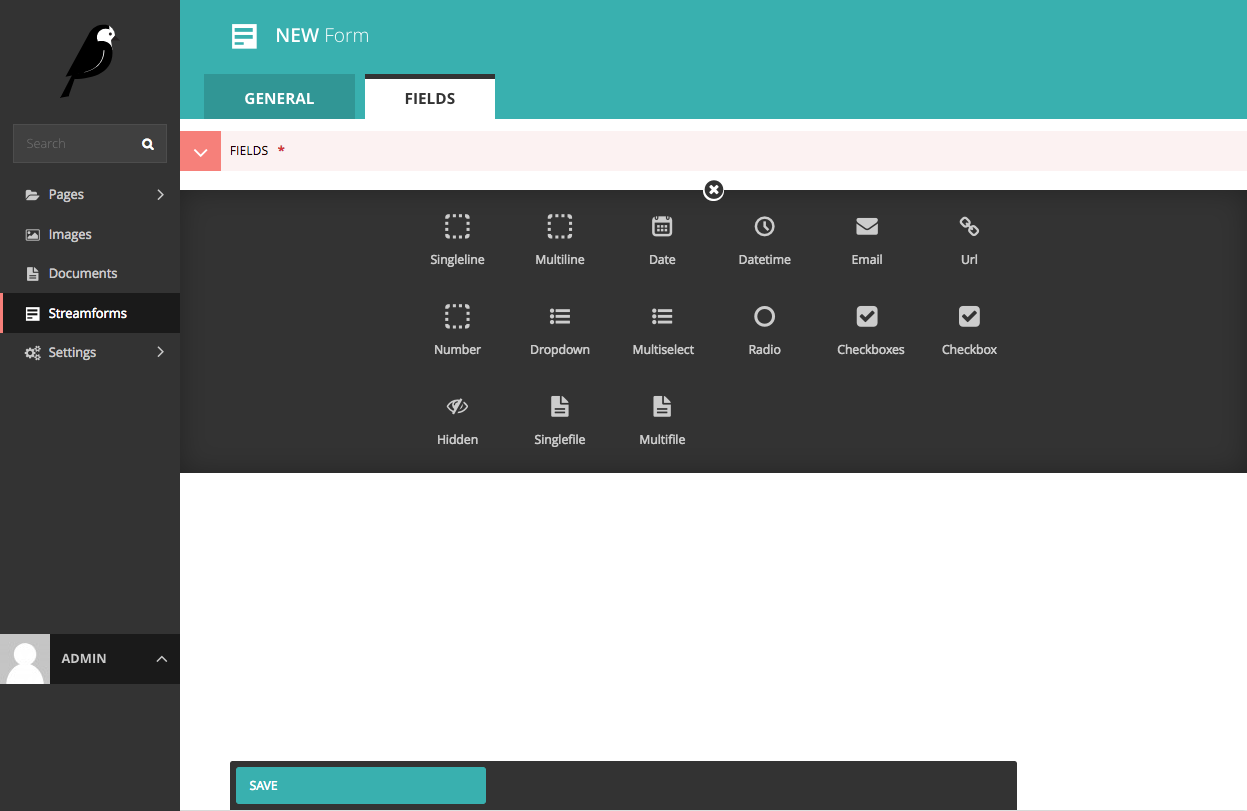
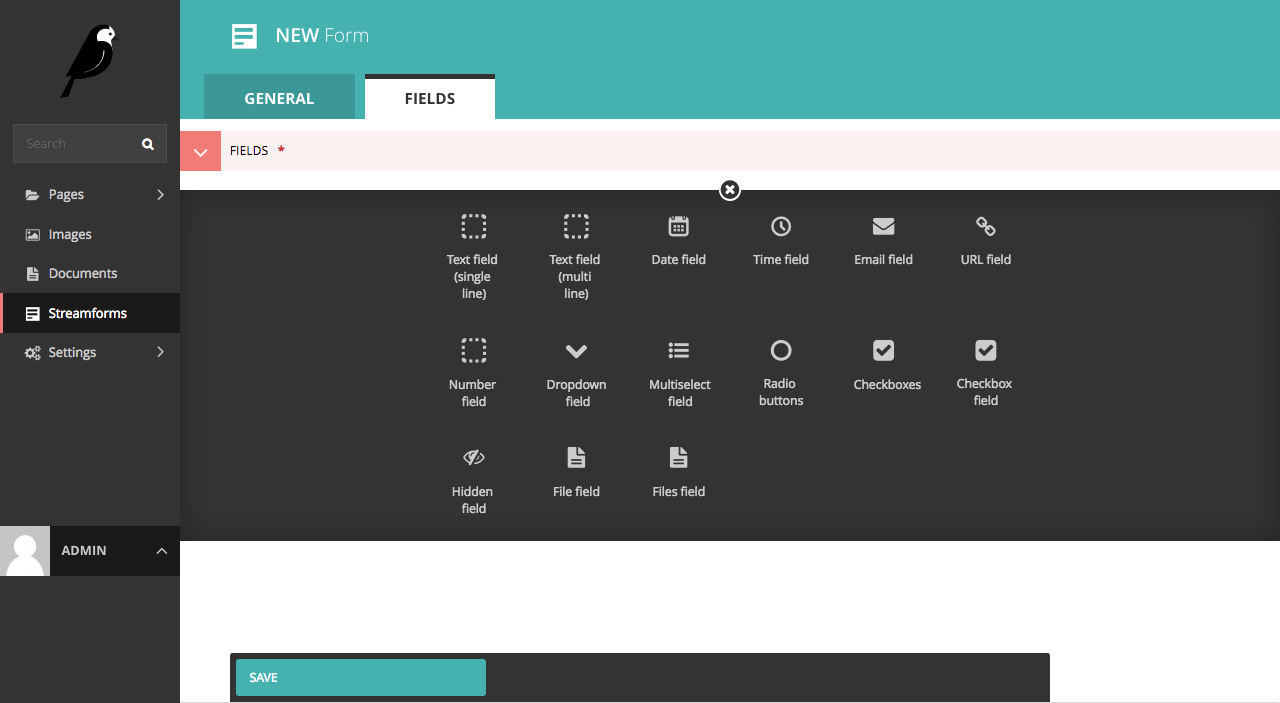
added labels to all fields and docs

diff --git a/wagtailstreamforms/migrations/0001_initial.py b/wagtailstreamforms/migrations/0001_initial.py
@@ -1,4 +1,4 @@
-# Generated by Django 2.0.5 on 2018-05-18 21:32
+# Generated by Django 2.0.5 on 2018-05-30 23:03
 
 from django.db import migrations, models
 import django.db.models.deletion
@@ -24,7 +24,7 @@ class Migration(migrations.Migration):
                 ('title', models.CharField(max_length=255, verbose_name='Title')),
                 ('slug', models.SlugField(allow_unicode=True, help_text='Used to identify the form in template tags', max_length=255, unique=True, verbose_name='Slug')),
                 ('template_name', models.CharField(choices=wagtailstreamforms.conf.get_setting('FORM_TEMPLATES'), max_length=255, verbose_name='Template')),
-                ('fields', wagtailstreamforms.streamfield.FormFieldsStreamField((('singleline', wagtail.core.blocks.StructBlock((('label', wagtail.core.blocks.CharBlock()), ('help_text', wagtail.core.blocks.CharBlock(required=False)), ('required', wagtail.core.blocks.BooleanBlock(required=False)), ('default_value', wagtail.core.blocks.CharBlock(required=False))), icon='placeholder')), ('multiline', wagtail.core.blocks.StructBlock((('label', wagtail.core.blocks.CharBlock()), ('help_text', wagtail.core.blocks.CharBlock(required=False)), ('required', wagtail.core.blocks.BooleanBlock(required=False)), ('default_value', wagtail.core.blocks.CharBlock(required=False))), icon='placeholder')), ('date', wagtail.core.blocks.StructBlock((('label', wagtail.core.blocks.CharBlock()), ('help_text', wagtail.core.blocks.CharBlock(required=False)), ('required', wagtail.core.blocks.BooleanBlock(required=False)), ('default_value', wagtail.core.blocks.CharBlock(required=False))), icon='date')), ('datetime', wagtail.core.blocks.StructBlock((('label', wagtail.core.blocks.CharBlock()), ('help_text', wagtail.core.blocks.CharBlock(required=False)), ('required', wagtail.core.blocks.BooleanBlock(required=False)), ('default_value', wagtail.core.blocks.CharBlock(required=False))), icon='time')), ('email', wagtail.core.blocks.StructBlock((('label', wagtail.core.blocks.CharBlock()), ('help_text', wagtail.core.blocks.CharBlock(required=False)), ('required', wagtail.core.blocks.BooleanBlock(required=False)), ('default_value', wagtail.core.blocks.CharBlock(required=False))), icon='mail')), ('url', wagtail.core.blocks.StructBlock((('label', wagtail.core.blocks.CharBlock()), ('help_text', wagtail.core.blocks.CharBlock(required=False)), ('required', wagtail.core.blocks.BooleanBlock(required=False)), ('default_value', wagtail.core.blocks.CharBlock(required=False))), icon='link')), ('number', wagtail.core.blocks.StructBlock((('label', wagtail.core.blocks.CharBlock()), ('help_text', wagtail.core.blocks.CharBlock(required=False)), ('required', wagtail.core.blocks.BooleanBlock(required=False)), ('default_value', wagtail.core.blocks.CharBlock(required=False))), icon='placeholder')), ('dropdown', wagtail.core.blocks.StructBlock((('label', wagtail.core.blocks.CharBlock()), ('help_text', wagtail.core.blocks.CharBlock(required=False)), ('required', wagtail.core.blocks.BooleanBlock(required=False)), ('empty_label', wagtail.core.blocks.CharBlock(required=False)), ('choices', wagtail.core.blocks.ListBlock(wagtail.core.blocks.CharBlock(label='Option')))), icon='list-ul')), ('multiselect', wagtail.core.blocks.StructBlock((('label', wagtail.core.blocks.CharBlock()), ('help_text', wagtail.core.blocks.CharBlock(required=False)), ('required', wagtail.core.blocks.BooleanBlock(required=False)), ('choices', wagtail.core.blocks.ListBlock(wagtail.core.blocks.CharBlock(label='Option')))), icon='list-ul')), ('radio', wagtail.core.blocks.StructBlock((('label', wagtail.core.blocks.CharBlock()), ('help_text', wagtail.core.blocks.CharBlock(required=False)), ('required', wagtail.core.blocks.BooleanBlock(required=False)), ('choices', wagtail.core.blocks.ListBlock(wagtail.core.blocks.CharBlock(label='Option')))), icon='radio-empty')), ('checkboxes', wagtail.core.blocks.StructBlock((('label', wagtail.core.blocks.CharBlock()), ('help_text', wagtail.core.blocks.CharBlock(required=False)), ('required', wagtail.core.blocks.BooleanBlock(required=False)), ('choices', wagtail.core.blocks.ListBlock(wagtail.core.blocks.CharBlock(label='Option')))), icon='tick-inverse')), ('checkbox', wagtail.core.blocks.StructBlock((('label', wagtail.core.blocks.CharBlock()), ('help_text', wagtail.core.blocks.CharBlock(required=False)), ('required', wagtail.core.blocks.BooleanBlock(required=False))), icon='tick-inverse')), ('hidden', wagtail.core.blocks.StructBlock((('label', wagtail.core.blocks.CharBlock()), ('help_text', wagtail.core.blocks.CharBlock(required=False)), ('required', wagtail.core.blocks.BooleanBlock(required=False)), ('default_value', wagtail.core.blocks.CharBlock(required=False))), icon='no-view')), ('singlefile', wagtail.core.blocks.StructBlock((('label', wagtail.core.blocks.CharBlock()), ('help_text', wagtail.core.blocks.CharBlock(required=False)), ('required', wagtail.core.blocks.BooleanBlock(required=False))), icon='doc-full-inverse')), ('multifile', wagtail.core.blocks.StructBlock((('label', wagtail.core.blocks.CharBlock()), ('help_text', wagtail.core.blocks.CharBlock(required=False)), ('required', wagtail.core.blocks.BooleanBlock(required=False))), icon='doc-full-inverse'))), verbose_name='Fields')),
+                ('fields', wagtailstreamforms.streamfield.FormFieldsStreamField([('singleline', wagtail.core.blocks.StructBlock([('label', wagtail.core.blocks.CharBlock()), ('help_text', wagtail.core.blocks.CharBlock(required=False)), ('required', wagtail.core.blocks.BooleanBlock(required=False)), ('default_value', wagtail.core.blocks.CharBlock(required=False))], icon='placeholder', label='Text field (single line)')), ('multiline', wagtail.core.blocks.StructBlock([('label', wagtail.core.blocks.CharBlock()), ('help_text', wagtail.core.blocks.CharBlock(required=False)), ('required', wagtail.core.blocks.BooleanBlock(required=False)), ('default_value', wagtail.core.blocks.CharBlock(required=False))], icon='placeholder', label='Text field (multi line)')), ('date', wagtail.core.blocks.StructBlock([('label', wagtail.core.blocks.CharBlock()), ('help_text', wagtail.core.blocks.CharBlock(required=False)), ('required', wagtail.core.blocks.BooleanBlock(required=False)), ('default_value', wagtail.core.blocks.CharBlock(required=False))], icon='date', label='Date field')), ('datetime', wagtail.core.blocks.StructBlock([('label', wagtail.core.blocks.CharBlock()), ('help_text', wagtail.core.blocks.CharBlock(required=False)), ('required', wagtail.core.blocks.BooleanBlock(required=False)), ('default_value', wagtail.core.blocks.CharBlock(required=False))], icon='time', label='Time field')), ('email', wagtail.core.blocks.StructBlock([('label', wagtail.core.blocks.CharBlock()), ('help_text', wagtail.core.blocks.CharBlock(required=False)), ('required', wagtail.core.blocks.BooleanBlock(required=False)), ('default_value', wagtail.core.blocks.CharBlock(required=False))], icon='mail', label='Email field')), ('url', wagtail.core.blocks.StructBlock([('label', wagtail.core.blocks.CharBlock()), ('help_text', wagtail.core.blocks.CharBlock(required=False)), ('required', wagtail.core.blocks.BooleanBlock(required=False)), ('default_value', wagtail.core.blocks.CharBlock(required=False))], icon='link', label='URL field')), ('number', wagtail.core.blocks.StructBlock([('label', wagtail.core.blocks.CharBlock()), ('help_text', wagtail.core.blocks.CharBlock(required=False)), ('required', wagtail.core.blocks.BooleanBlock(required=False)), ('default_value', wagtail.core.blocks.CharBlock(required=False))], icon='placeholder', label='Number field')), ('dropdown', wagtail.core.blocks.StructBlock([('label', wagtail.core.blocks.CharBlock()), ('help_text', wagtail.core.blocks.CharBlock(required=False)), ('required', wagtail.core.blocks.BooleanBlock(required=False)), ('empty_label', wagtail.core.blocks.CharBlock(required=False)), ('choices', wagtail.core.blocks.ListBlock(wagtail.core.blocks.CharBlock(label='Option')))], icon='arrow-down-big', label='Dropdown field')), ('multiselect', wagtail.core.blocks.StructBlock([('label', wagtail.core.blocks.CharBlock()), ('help_text', wagtail.core.blocks.CharBlock(required=False)), ('required', wagtail.core.blocks.BooleanBlock(required=False)), ('choices', wagtail.core.blocks.ListBlock(wagtail.core.blocks.CharBlock(label='Option')))], icon='list-ul', label='Multiselect field')), ('radio', wagtail.core.blocks.StructBlock([('label', wagtail.core.blocks.CharBlock()), ('help_text', wagtail.core.blocks.CharBlock(required=False)), ('required', wagtail.core.blocks.BooleanBlock(required=False)), ('choices', wagtail.core.blocks.ListBlock(wagtail.core.blocks.CharBlock(label='Option')))], icon='radio-empty', label='Radio buttons')), ('checkboxes', wagtail.core.blocks.StructBlock([('label', wagtail.core.blocks.CharBlock()), ('help_text', wagtail.core.blocks.CharBlock(required=False)), ('required', wagtail.core.blocks.BooleanBlock(required=False)), ('choices', wagtail.core.blocks.ListBlock(wagtail.core.blocks.CharBlock(label='Option')))], icon='tick-inverse', label='Checkboxes')), ('checkbox', wagtail.core.blocks.StructBlock([('label', wagtail.core.blocks.CharBlock()), ('help_text', wagtail.core.blocks.CharBlock(required=False)), ('required', wagtail.core.blocks.BooleanBlock(required=False))], icon='tick-inverse', label='Checkbox field')), ('hidden', wagtail.core.blocks.StructBlock([('label', wagtail.core.blocks.CharBlock()), ('help_text', wagtail.core.blocks.CharBlock(required=False)), ('required', wagtail.core.blocks.BooleanBlock(required=False)), ('default_value', wagtail.core.blocks.CharBlock(required=False))], icon='no-view', label='Hidden field')), ('singlefile', wagtail.core.blocks.StructBlock([('label', wagtail.core.blocks.CharBlock()), ('help_text', wagtail.core.blocks.CharBlock(required=False)), ('required', wagtail.core.blocks.BooleanBlock(required=False))], icon='doc-full-inverse', label='File field')), ('multifile', wagtail.core.blocks.StructBlock([('label', wagtail.core.blocks.CharBlock()), ('help_text', wagtail.core.blocks.CharBlock(required=False)), ('required', wagtail.core.blocks.BooleanBlock(required=False))], icon='doc-full-inverse', label='Files field'))], verbose_name='Fields')),
                 ('submit_button_text', models.CharField(default='Submit', max_length=100, verbose_name='Submit button text')),
                 ('success_message', models.CharField(blank=True, help_text='An optional success message to show when the form has been successfully submitted', max_length=255, verbose_name='Success message')),
                 ('error_message', models.CharField(blank=True, help_text='An optional error message to show when the form has validation errors', max_length=255, verbose_name='Error message')),

diff --git a/wagtailstreamforms/wagtailstreamforms_fields.py b/wagtailstreamforms/wagtailstreamforms_fields.py
@@ -1,4 +1,5 @@
 from django import forms
+from django.utils.translation import ugettext_lazy as _
 from wagtail.core import blocks
 
 from wagtailstreamforms.fields import BaseField, register
@@ -7,47 +8,55 @@ from wagtailstreamforms.fields import BaseField, register
 @register('singleline')
 class SingleLineTextField(BaseField):
     field_class = forms.CharField
+    label = _("Text field (single line)")
 
 
 @register('multiline')
 class MultiLineTextField(BaseField):
     field_class = forms.CharField
     widget = forms.widgets.Textarea
+    label = _("Text field (multi line)")
 
 
 @register('date')
 class DateField(BaseField):
     field_class = forms.DateField
     icon = 'date'
+    label = _("Date field")
 
 
 @register('datetime')
 class DateTimeField(BaseField):
     field_class = forms.DateTimeField
     icon = 'time'
+    label = _("Time field")
 
 
 @register('email')
 class EmailField(BaseField):
     field_class = forms.EmailField
     icon = 'mail'
+    label = _("Email field")
 
 
 @register('url')
 class URLField(BaseField):
     field_class = forms.URLField
     icon = 'link'
+    label = _("URL field")
 
 
 @register('number')
 class NumberField(BaseField):
     field_class = forms.DecimalField
+    label = _("Number field")
 
 
 @register('dropdown')
 class DropdownField(BaseField):
     field_class = forms.ChoiceField
-    icon = 'list-ul'
+    icon = 'arrow-down-big'
+    label = _("Dropdown field")
 
     def get_options(self, block_value):
         options = super().get_options(block_value)
@@ -64,13 +73,14 @@ class DropdownField(BaseField):
             ('required', blocks.BooleanBlock(required=False)),
             ('empty_label', blocks.CharBlock(required=False)),
             ('choices', blocks.ListBlock(blocks.CharBlock(label="Option"))),
-        ], icon=self.icon)
+        ], icon=self.icon, label=self.label)
 
 
 @register('multiselect')
 class MultiSelectField(BaseField):
     field_class = forms.MultipleChoiceField
     icon = 'list-ul'
+    label = _("Multiselect field")
 
     def get_options(self, block_value):
         options = super().get_options(block_value)
@@ -84,7 +94,7 @@ class MultiSelectField(BaseField):
             ('help_text', blocks.CharBlock(required=False)),
             ('required', blocks.BooleanBlock(required=False)),
             ('choices', blocks.ListBlock(blocks.CharBlock(label="Option"))),
-        ], icon=self.icon)
+        ], icon=self.icon, label=self.label)
 
 
 @register('radio')
@@ -92,6 +102,7 @@ class RadioField(BaseField):
     field_class = forms.ChoiceField
     widget = forms.widgets.RadioSelect
     icon = 'radio-empty'
+    label = _("Radio buttons")
 
     def get_options(self, block_value):
         options = super().get_options(block_value)
@@ -105,7 +116,7 @@ class RadioField(BaseField):
             ('help_text', blocks.CharBlock(required=False)),
             ('required', blocks.BooleanBlock(required=False)),
             ('choices', blocks.ListBlock(blocks.CharBlock(label="Option")))
-        ], icon=self.icon)
+        ], icon=self.icon, label=self.label)
 
 
 @register('checkboxes')
@@ -113,6 +124,7 @@ class CheckboxesField(BaseField):
     field_class = forms.MultipleChoiceField
     widget = forms.widgets.CheckboxSelectMultiple
     icon = 'tick-inverse'
+    label = _("Checkboxes")
 
     def get_options(self, block_value):
         options = super().get_options(block_value)
@@ -126,20 +138,21 @@ class CheckboxesField(BaseField):
             ('help_text', blocks.CharBlock(required=False)),
             ('required', blocks.BooleanBlock(required=False)),
             ('choices', blocks.ListBlock(blocks.CharBlock(label="Option"))),
-        ], icon=self.icon)
+        ], icon=self.icon, label=self.label)
 
 
 @register('checkbox')
 class CheckboxField(BaseField):
     field_class = forms.BooleanField
     icon = 'tick-inverse'
+    label = _("Checkbox field")
 
     def get_form_block(self):
         return blocks.StructBlock([
             ('label', blocks.CharBlock()),
             ('help_text', blocks.CharBlock(required=False)),
             ('required', blocks.BooleanBlock(required=False)),
-        ], icon=self.icon)
+        ], icon=self.icon, label=self.label)
 
 
 @register('hidden')
@@ -147,6 +160,7 @@ class HiddenField(BaseField):
     field_class = forms.CharField
     widget = forms.widgets.HiddenInput
     icon = 'no-view'
+    label = _("Hidden field")
 
 
 @register('singlefile')
@@ -154,13 +168,14 @@ class SingleFileField(BaseField):
     field_class = forms.FileField
     widget = forms.widgets.FileInput
     icon = 'doc-full-inverse'
+    label = _("File field")
 
     def get_form_block(self):
         return blocks.StructBlock([
             ('label', blocks.CharBlock()),
             ('help_text', blocks.CharBlock(required=False)),
             ('required', blocks.BooleanBlock(required=False)),
-        ], icon=self.icon)
+        ], icon=self.icon, label=self.label)
 
 
 @register('multifile')
@@ -168,10 +183,11 @@ class MultiFileField(BaseField):
     field_class = forms.FileField
     widget = forms.widgets.FileInput(attrs={'multiple': True})
     icon = 'doc-full-inverse'
+    label = _("Files field")
 
     def get_form_block(self):
         return blocks.StructBlock([
             ('label', blocks.CharBlock()),
             ('help_text', blocks.CharBlock(required=False)),
             ('required', blocks.BooleanBlock(required=False)),
-        ], icon=self.icon)
+        ], icon=self.icon, label=self.label)

diff --git a/wagtailstreamforms/fields.py b/wagtailstreamforms/fields.py
@@ -58,12 +58,14 @@ class BaseField:
             field_class = forms.CharField
             widget = forms.widgets.Textarea
             icon = 'placeholder'
+            label = 'Text (multi line)'
 
     """
 
     field_class = None
     widget = None
     icon = 'placeholder'
+    label = None
 
     def get_formfield(self, block_value):
         """
@@ -111,7 +113,7 @@ class BaseField:
             ('help_text', blocks.CharBlock(required=False)),
             ('required', blocks.BooleanBlock(required=False)),
             ('default_value', blocks.CharBlock(required=False)),
-        ], icon=self.icon)
+        ], icon=self.icon, label=self.label)
 
 
 class HookMultiSelectFormField(forms.MultipleChoiceField):

diff --git a/docs/fields.rst b/docs/fields.rst
@@ -54,6 +54,8 @@ The ``BaseField`` class also has some additional properties you can set as follo
         widget = forms.widgets.Textarea
         # the icon in the streamfield
         icon = 'placeholder'
+        # the label to show in the streamfield
+        label = 'My text area'
 
 Setting widget attributes
 -------------------------
@@ -114,6 +116,7 @@ additional options are available within the StreamField:
     @register('maxlength')
     class MaxLengthField(BaseField):
         field_class = forms.CharField
+        label = 'Text field (max length)'
 
         def get_form_block(self):
             return blocks.StructBlock([
@@ -122,7 +125,7 @@ additional options are available within the StreamField:
                 ('required', blocks.BooleanBlock(required=False)),
                 ('max_length', blocks.IntegerBlock(required=True)),
                 ('default_value', blocks.CharBlock(required=False)),
-            ], icon=self.icon)
+            ], icon=self.icon, label=self.label)
 
 and then pull that value into the fields options:
 
@@ -132,6 +135,7 @@ and then pull that value into the fields options:
     @register('maxlength')
     class MaxLengthField(BaseField):
         field_class = forms.CharField
+        label = 'Text field (max length)'
 
         def get_options(self, block_value):
             options = super().get_options(block_value)
@@ -145,7 +149,7 @@ and then pull that value into the fields options:
                 ('required', blocks.BooleanBlock(required=False)),
                 ('max_length', blocks.IntegerBlock(required=True)),
                 ('default_value', blocks.CharBlock(required=False)),
-            ], icon=self.icon)
+            ], icon=self.icon, label=self.label)
 
 Overriding an existing field
 ----------------------------
@@ -196,7 +200,8 @@ Below is an example model choice field.
    @register('user')
    class UserChoiceField(BaseField):
        field_class = forms.ModelChoiceField
-       icon = 'list-ul'
+       icon = 'arrow-down-big'
+       label = 'User dropdown field'
 
        @staticmethod
        def get_queryset():
@@ -212,7 +217,7 @@ Below is an example model choice field.
                ('label', blocks.CharBlock()),
                ('help_text', blocks.CharBlock(required=False)),
                ('required', blocks.BooleanBlock(required=False)),
-           ], icon=self.icon)
+           ], icon=self.icon, label=self.label)
 
 Regex validated example
 -----------------------
@@ -232,6 +237,7 @@ the same for any given regex pattern.
    @register('regex_validated')
    class RegexValidatedField(BaseField):
        field_class = forms.RegexField
+       label = 'Regex field'
 
        def get_options(self, block_value):
            options = super().get_options(block_value)
@@ -255,7 +261,7 @@ the same for any given regex pattern.
                ('regex', blocks.ChoiceBlock(choices=self.get_regex_choices())),
                ('error_message', blocks.CharBlock()),
                ('default_value', blocks.CharBlock(required=False)),
-           ], icon=self.icon)
+           ], icon=self.icon, label=self.label)
 
 ReCAPTCHA example
 -----------------
@@ -294,12 +300,13 @@ Django ``settings.py`` file:
     class ReCaptchaField(BaseField):
         field_class = ReCaptchaField
         icon = 'success'
+        label = 'ReCAPTCHA field'
 
         def get_form_block(self):
             return blocks.StructBlock([
                 ('label', blocks.CharBlock()),
                 ('help_text', blocks.CharBlock(required=False)),
-            ], icon=self.icon)
+            ], icon=self.icon, label=self.label)
 
 Useful Resources
 ----------------
